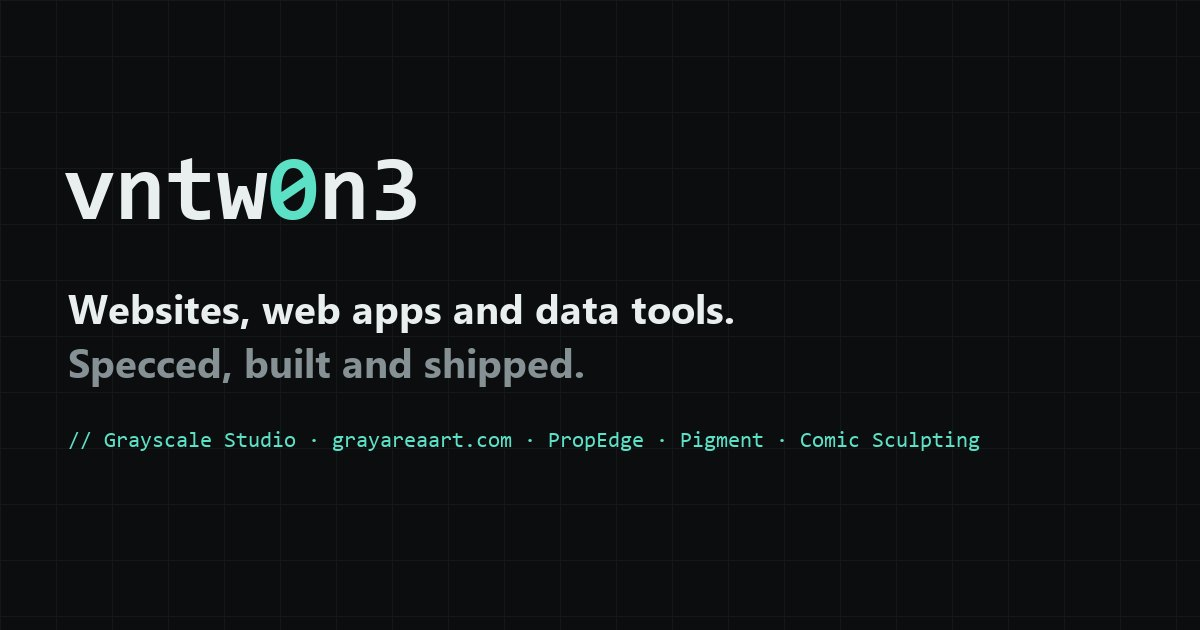
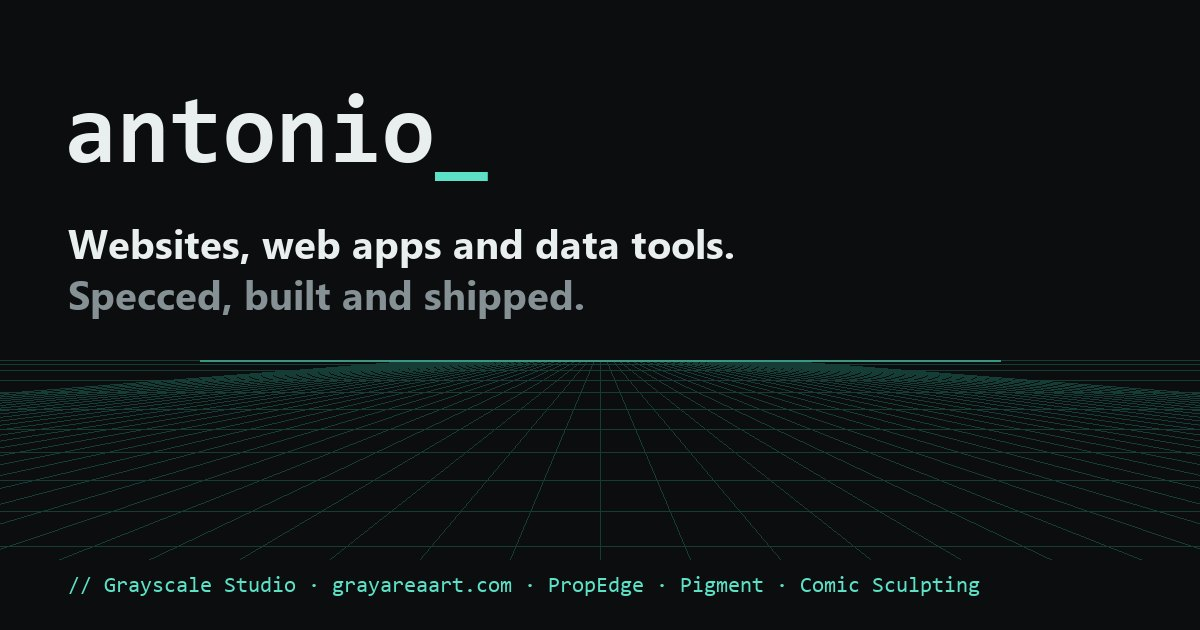
Rebrand to antonio, 3D perspective grid in hero

diff --git a/index.html b/index.html
@@ -3,20 +3,20 @@
 <head>
   <meta charset="utf-8">
   <meta name="viewport" content="width=device-width, initial-scale=1">
-  <title>vntw0n3 | Websites, web apps & data tools</title>
-  <meta name="description" content="vntw0n3 builds websites, web apps, online stores and data tools: specced in plain language, built with Claude Code, tested and shipped.">
+  <title>antonio | Websites, web apps & data tools</title>
+  <meta name="description" content="Antonio builds websites, web apps, online stores and data tools: specced in plain language, built with Claude Code, tested and shipped.">
   <meta name="theme-color" content="#0b0d0e">
   <meta name="color-scheme" content="dark">
   <!-- Site is already dark; tells the Dark Reader extension not to re-theme it -->
   <meta name="darkreader-lock">
   <meta property="og:type" content="website">
-  <meta property="og:title" content="vntw0n3 | Websites, web apps & data tools">
+  <meta property="og:title" content="antonio | Websites, web apps & data tools">
   <meta property="og:description" content="Specced, built and shipped: sites for artists and small businesses, online stores, custom web apps and auto-updating data boards.">
   <meta property="og:url" content="https://vntw0n3.github.io/">
   <meta property="og:image" content="https://vntw0n3.github.io/img/og-image.jpg">
   <meta property="og:image:width" content="1200">
   <meta property="og:image:height" content="630">
-  <meta property="og:image:alt" content="vntw0n3: websites, web apps and data tools">
+  <meta property="og:image:alt" content="antonio: websites, web apps and data tools">
   <meta name="twitter:card" content="summary_large_image">
   <meta name="twitter:image" content="https://vntw0n3.github.io/img/og-image.jpg">
   <link rel="icon" href="favicon.svg" type="image/svg+xml">
@@ -31,7 +31,7 @@
 
   <header class="site-header">
     <nav class="nav container" aria-label="Primary">
-      <a class="wordmark" href="#top" aria-label="vntw0n3, back to top">vntw<span>0</span>n3</a>
+      <a class="wordmark" href="#top" aria-label="antonio, back to top">antonio<span class="cursor" aria-hidden="true">_</span></a>
       <button class="nav-toggle" type="button" aria-expanded="false" aria-controls="nav-menu">
         <span class="sr-only">Menu</span>
         <span class="nav-toggle-bar" aria-hidden="true"></span>
@@ -48,6 +48,7 @@
   <main id="main">
     <!-- Hero -->
     <section class="hero" id="top" aria-labelledby="hero-title">
+      <div class="hero-grid" aria-hidden="true"></div>
       <div class="container">
         <p class="kicker"><span aria-hidden="true">//</span> freelance builds</p>
         <h1 id="hero-title">Websites, web apps and data tools. <span class="hl">Specced, built and shipped.</span></h1>
@@ -217,7 +218,7 @@
         <p class="label">04 / contact</p>
         <h2 id="contact-title">Start a project</h2>
         <p class="lead">Send a few lines about what you want built, who it's for, and any deadline. I'll reply with a plan and a quote.</p>
-        <a class="btn btn-primary btn-lg" href="mailto:antoniogray6@yahoo.com?subject=Project%20inquiry%20(vntw0n3)">
+        <a class="btn btn-primary btn-lg" href="mailto:antoniogray6@yahoo.com?subject=Project%20inquiry">
           <svg aria-hidden="true" viewBox="0 0 24 24" width="20" height="20"><path d="M3 6.5A1.5 1.5 0 0 1 4.5 5h15A1.5 1.5 0 0 1 21 6.5v11a1.5 1.5 0 0 1-1.5 1.5h-15A1.5 1.5 0 0 1 3 17.5v-11Zm1 .5 8 6 8-6" fill="none" stroke="currentColor" stroke-width="1.8" stroke-linejoin="round"/></svg>
           antoniogray6@yahoo.com
         </a>
@@ -228,7 +229,7 @@
 
   <footer class="site-footer">
     <div class="container">
-      <p>© <span data-year>2026</span> vntw0n3 · Built with Claude Code</p>
+      <p>© <span data-year>2026</span> antonio · Built with Claude Code</p>
       <a href="#top">Back to top</a>
     </div>
   </footer>

diff --git a/styles.css b/styles.css
@@ -67,7 +67,8 @@ svg { flex-shrink: 0; }
   font-family: var(--mono); font-weight: 700; font-size: 1.25rem; letter-spacing: -0.02em;
   text-decoration: none;
 }
-.wordmark span { color: var(--accent); }
+.wordmark .cursor { color: var(--accent); animation: blink 1.1s steps(1) infinite; }
+@keyframes blink { 50% { opacity: 0; } }
 .nav-menu { display: flex; align-items: center; gap: 4px; }
 .nav-menu a {
   display: block; padding: 8px 14px; border-radius: 999px;
@@ -128,17 +129,28 @@ svg { flex-shrink: 0; }
 
 /* ---------- Hero ---------- */
 .hero {
-  position: relative; overflow: hidden;
-  padding: clamp(72px, 13vw, 140px) 0 clamp(56px, 9vw, 104px);
-  background:
-    linear-gradient(var(--bg) 0, transparent 30%, transparent 70%, var(--bg) 100%),
-    linear-gradient(90deg, var(--line) 1px, transparent 1px) 0 0 / 56px 56px,
-    linear-gradient(var(--line) 1px, transparent 1px) 0 0 / 56px 56px;
+  position: relative; overflow: hidden; isolation: isolate;
+  padding: clamp(72px, 13vw, 140px) 0 clamp(96px, 14vw, 168px);
+  background: radial-gradient(120% 70% at 50% 100%, rgba(92, 224, 198, 0.10), transparent 60%), var(--bg);
 }
-.hero::after {
-  content: ""; position: absolute; width: 640px; height: 640px; right: -200px; top: -240px;
-  background: radial-gradient(circle, rgba(92, 224, 198, 0.14), transparent 65%); pointer-events: none;
+/* 3D floor: a grid tilted back in perspective, fading toward a glowing horizon */
+.hero-grid {
+  position: absolute; left: -50%; right: -50%; bottom: 0; height: 70%;
+  z-index: -1; pointer-events: none;
+  perspective: 420px; perspective-origin: 50% 0%;
 }
+.hero-grid::before {
+  content: ""; position: absolute; inset: 0;
+  background-image:
+    linear-gradient(90deg, rgba(92, 224, 198, 0.34) 1px, transparent 1px),
+    linear-gradient(rgba(92, 224, 198, 0.34) 1px, transparent 1px);
+  background-size: 72px 72px;
+  transform: rotateX(62deg); transform-origin: 50% 100%;
+  -webkit-mask-image: linear-gradient(to top, #000 25%, transparent 92%);
+          mask-image: linear-gradient(to top, #000 25%, transparent 92%);
+  animation: grid-drift 5s linear infinite;
+}
+@keyframes grid-drift { to { background-position: 0 72px; } }
 .hero .container { position: relative; z-index: 1; }
 .kicker, .label {
   font-family: var(--mono); font-size: .88rem; font-weight: 500; color: var(--accent);

diff --git a/README.md b/README.md
@@ -1,4 +1,4 @@
-# vntw0n3: freelance site
+# antonio: freelance site (repo: vntw0n3)
 
 Single-page static site: plain HTML, CSS and JS. No build step. Kept separate from the job portfolio (`antoniograyportfolio`) on purpose: different brand, no cross-links, no employer details.
 
